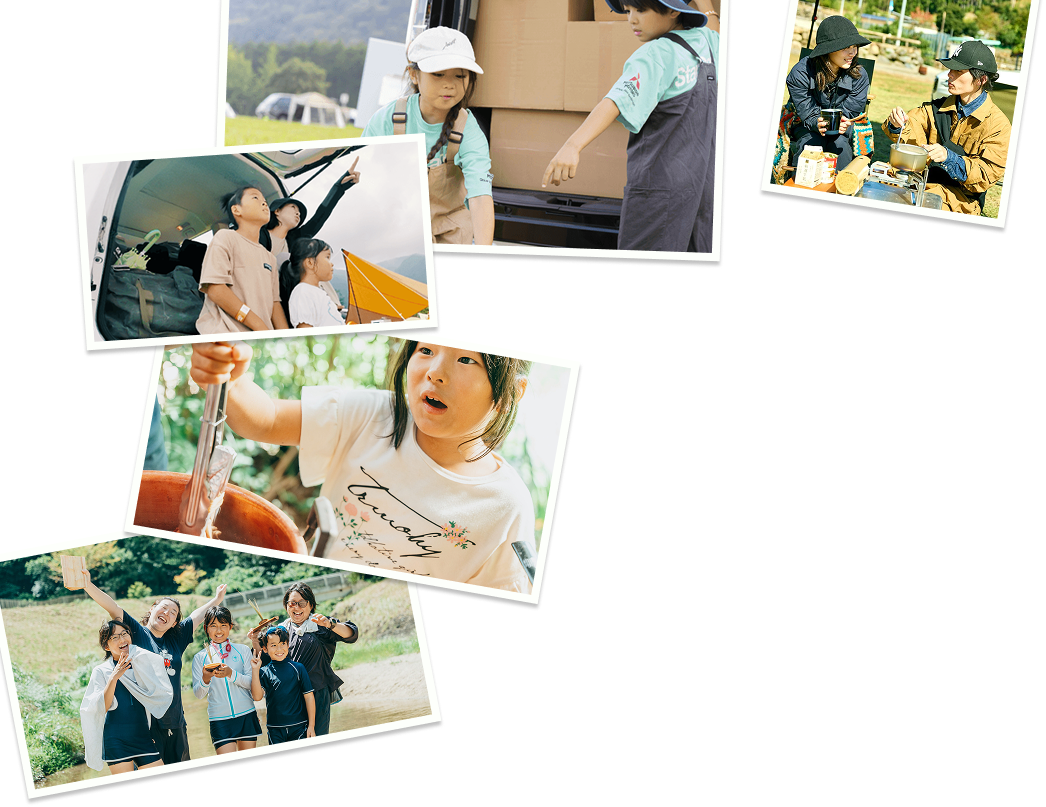
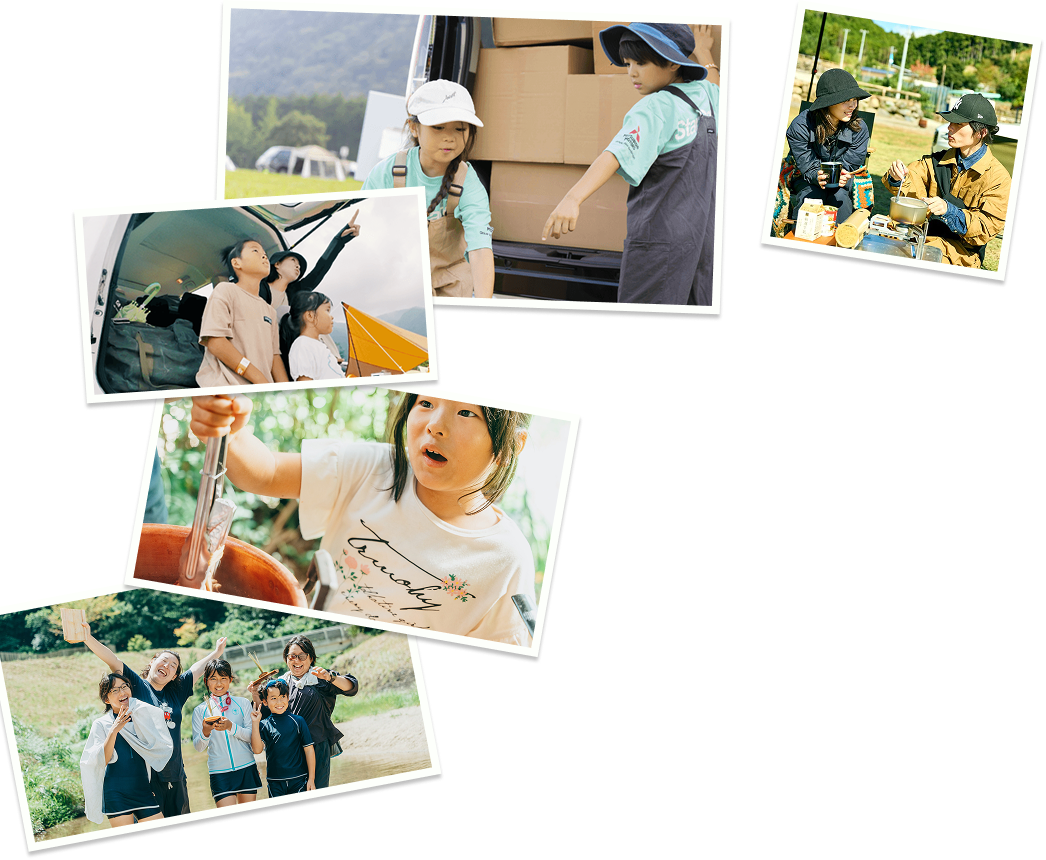
fvのpcの写真完了　　12/23 23:07

diff --git a/index.html b/index.html
@@ -52,21 +52,11 @@
                 <div class="hero-title__sub"><img src="img/hero-title-sore.png" alt="それ。" /></div>
             </div>
             <div class="hero-img">
-                <img src="img/hero-img-right.png" alt="写真右" />
-                <div class="hero-img__right">
-                    <!-- <img src="img/hero1.png" alt="物を運ぶ女の子" />
-                    <img src="img/hero2.png" alt="キャンプするカップル" />
-                    <img src="img/hero7.png" alt="キャンプ車" />
-                    <img src="img/hero8.png" alt="楽しげな女の子" />
-                    <img src="img/hero9.png" alt="川でキャンプ" /> -->
-                </div>
                 <div class="hero-img__left">
                     <img src="img/hero-img-left.png" alt="写真左" />
-                    <!-- <img src="img/hero3.png" alt="キャンプで乾杯" />
-                    <img src="img/hero4.png" alt="家族でキャンプ白" />
-                    <img src="img/hero5.png" alt="家族三人でキャンプ" />
-                    <img src="img/hero6.png" alt="家族、森" />
-                    <img src="img/hero10.png" alt="キャンプする父と子供" /> -->
+                </div>
+                <div class="hero-img__right">
+                    <img src="img/hero-img-right.png" alt="写真右" />
                 </div>
             </div>
         </div>

diff --git a/scss/index.css b/scss/index.css
@@ -69,6 +69,7 @@ header {
   left: 0;
   width: 100%;
   z-index: 9999999;
+  position: fixed;
 }
 
 .logo {
@@ -78,6 +79,7 @@ header {
   border-bottom-right-radius: 20px;
   display: flex;
   justify-content: center;
+  align-items: center;
 }
 .logo img {
   width: 100px;
@@ -91,9 +93,21 @@ header {
   justify-content: center;
   align-items: center;
   position: relative;
+  z-index: 2;
 }
 .hero-title__sub {
   position: absolute;
   margin-bottom: 13rem;
   margin-right: 25rem;
+}
+
+.hero-img {
+  position: absolute;
+  top: 0;
+  left: 0;
+  width: 100%;
+  height: 100vh;
+  display: flex;
+  justify-content: space-between;
+  z-index: 1;
 }/*# sourceMappingURL=index.css.map */

diff --git a/scss/index.scss b/scss/index.scss
@@ -21,8 +21,11 @@
 //ファーストビュー
 
 .hero-title {
+    width: 100%;
+    height: 100vh;
     @include flex-center;
     position: relative;
+    z-index: 2;
 
     &__sub {
         position: absolute;
@@ -31,16 +34,13 @@
     }
 }
 
-.hero-img {
+.hero-img{
+    position: absolute;
+    top: 0;
+    left: 0;
+    width: 100%;
+    height: 100vh;
     display: flex;
     justify-content: space-between; 
-    align-items: center; 
-    z-index: 1;
-
+    z-index: 1; 
 }
-// .hero-img{
-//     img{
-//         position: relative;
-//         @include img-shadow;
-//     }
-// }

diff --git a/common/scss/_header.scss b/common/scss/_header.scss
@@ -6,7 +6,8 @@ header {
     top: 0;             
     left: 0;            
     width: 100%;            
-    z-index: 9999999;       
+    z-index: 9999999;   
+    position: fixed;    
 }
 .logo{
     background-color: $white;

diff --git a/common/scss/_mixin.scss b/common/scss/_mixin.scss
@@ -1,4 +1,4 @@
-@use 'mixin' as *;
+
 @use 'variables' as *;
 // ブレイクポイントを指定====================
 $pc: 1024px;
